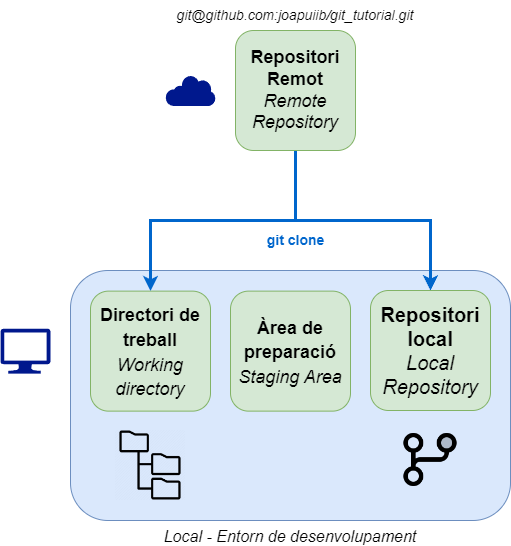
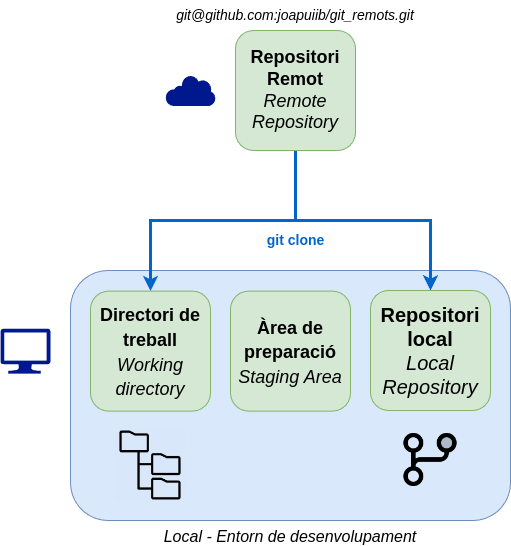
bloc 3: push i clone

diff --git a/docs/apunts/03_remots.md b/docs/apunts/03_remots.md
@@ -4,6 +4,18 @@ title: "Bloc 3: Remots"
 icon: material/book-open-variant
 alias: bloc3
 comments: true
+tags:
+    - git clone
+    - git fetch
+    - git pull
+    - git push
+    - git remote
+    - github
+    - ssh
+    - personal access token
+    - origin
+    - remot
+    - --set-upstream
 ---
 
 ## Introducció
@@ -423,7 +435,7 @@ git remote remove <nom>
 - `<nom>`: Nom del repositori remot a eliminar.
 
 
-## Associació entre branques locals i remotes (`--set-upstream`)
+## Associació entre branques locals i remotes (`git push --set-upstream`)
 De moment, les branques que hem creat resideixen en el repositori local,
 és a dir, en el nostre dispositiu.
 
@@ -443,6 +455,11 @@ git push [-u|--set-upstream] <remot> <branca>
 !!! important
     Aquesta comanda funciona sobre la branca on estem situats (`HEAD`).
 
+<figure id="figure-7">
+    <img src="../img/remots/push_setupstream.png" alt="Associació d'una branca local a una branca remota">
+    <figcaption>Figura 7: Associació d'una branca local a una branca remota</figcaption>
+</figure>
+
 !!! tip
     Pots configurar git perquè configure automàticament la branca local
     perquè s'associe amb la branca remota amb el mateix nom
@@ -453,14 +470,112 @@ git push [-u|--set-upstream] <remot> <branca>
     ```
 
 !!! example "Associació branca local i remota"
+    Vegem que inicialment la branca `main` no està associada a cap branca remota.
+
+    Si intentem fer un `git push`, ens mostrarà un missatge d'error com que
+    hem d'anar associar una branca remota.
+
+    ```shellconsole
+    joapuiib@fp:~/git_remots (main) $ git lga
+    * b7adb78 - (2 seconds ago) README.md: Descripció - Joan Puigcerver (HEAD -> main)
+    * a41ab9e - (2 seconds ago) README.md: Títol - Joan Puigcerver
+    joapuiib@fp:~/git_remots (main) $ git push
+    fatal: The current branch main has no upstream branch.
+    To push the current branch and set the remote as upstream, use
+
+        git push --set-upstream origin main
+
+    To have this happen automatically for branches without a tracking
+    upstream, see 'push.autoSetupRemote' in 'git help config'.
+
+    ```
+
+    Associem les branques `main` local i remota amb l'ordre `git push --set-upstream`.
+
+    Localment, s'ha creat la referència `origin/main` que apunta a la branca remota `main`.
+
+
+    ```shellconsole
+    joapuiib@fp:~/git_remots (main) $ git push --set-upstream origin main
+    Enumerating objects: 6, done.
+    Counting objects: 100% (6/6), done.
+    Delta compression using up to 12 threads
+    Compressing objects: 100% (3/3), done.
+    Writing objects: 100% (6/6), 503 bytes | 503.00 KiB/s, done.
+    Total 6 (delta 1), reused 0 (delta 0), pack-reused 0 (from 0)
+    remote: Resolving deltas: 100% (1/1), done.
+    To github.com:joapuiib/git_remots.git
+     * [new branch]      main -> main
+    branch 'main' set up to track 'origin/main'.
+    joapuiib@fp:~/git_remots (main) $ git lga
+    * b7adb78 - (2 seconds ago) README.md: Descripció - Joan Puigcerver (HEAD -> main, origin/main)
+    * a41ab9e - (2 seconds ago) README.md: Títol - Joan Puigcerver
+    ```
+
+    Vegem que els canvis s'han publicat correctament al repositori remot:
+
+    <figure id="figure-8">
+        <img src="../img/remots/github_push.png" alt="Canvis publicats a GitHub">
+        <figcaption>Figura 8: Canvis publicats a GitHub</figcaption>
+    </figure>
+
+
+## Clonació d'un repositori remot (`git clone`)
+L'ordre `git clone` permet copiar un repositori remot a un repositori local en el teu sistema,
+des del qual podràs realitzar canvis.
+
+Aquesta ordre còpia els continguts del _Directori de Treball_ i tota la informació del _Repositori Local_,
+incloent la història de canvis. A més, configura automàticament el repositori remot com a `origin`.
+
+La sintaxi és la següent:
+```bash
+git clone <url> [<directori>]
+```
+
+- `<url>`: URL del repositori remot. Pot ser una URL HTTPS o SSH.
+- `<directori>`: Opcional. Nom del directori on es copiarà el repositori. Per defecte, es crea un directori amb
+    el nom del repositori remot.
+
+<figure id="figure-9">
+    <img src="../img/remots/clone.png" alt="Clonació d'un repositori remot">
+    <figcaption>Figura 9: Clonació d'un repositori remot</figcaption>
+</figure>
+
+!!! example "Pau clona el repositori remot"
+    En aquest exemple, el desenvolupador Pau clonarà el repositori remot `git_remots`
+    sobre el directori `~/git_remots_pau` del seu sistema.
+
+    > S'ha modificat el _prompt_ per indicar les comandes que executaria Pau.
+
+    ```shellconsole
+    pau@fp:~ $ git clone git@github.com:joapuiib/git_remots.git ~/git_remots_pau
+    Cloning into '/home/pau/git_remots_pau'...
+    remote: Enumerating objects: 6, done.
+    remote: Counting objects: 100% (6/6), done.
+    remote: Compressing objects: 100% (2/2), done.
+    remote: Total 6 (delta 1), reused 6 (delta 1), pack-reused 0 (from 0)
+    Receiving objects: 100% (6/6), done.
+    Resolving deltas: 100% (1/1), done.
+    pau@fp:~ $ cd ~/git_remots_pau
+    pau@fp:~/git_remots_pau (main) $ ls
+    README.md
+    pau@fp:~/git_remots_pau (main) $ git lg
+    * b7adb78 - (10 minutes ago) README.md: Descripció - Joan Puigcerver (HEAD -> main, origin/main)
+    * a41ab9e - (10 minutes ago) README.md: Títol - Joan Puigcerver
+    ```
+
+    S'observa que s'ha clonat correctament el repositori remot `git_remots` al directori `~/git_remots_pau`,
+    que conté els fitxers i la història de canvis del repositori remot.
+
+
+## Sincronitzacio entre repositoris (`git fetch`)
+
+!!! prep "Preparació: Pau realitza canvis"
     @TODO
 
 
-## Publicació de canvis (`git push`)
+## Incorporació de canvis (`git pull`)
 
-## Incorporació de canvis
-
-## Clonació d'un repositori remot
 
 ## Recursos addicionals
 
